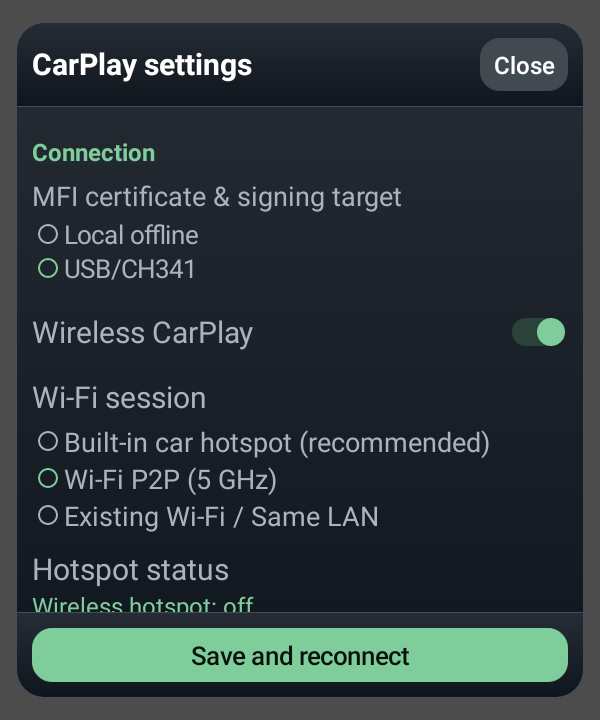
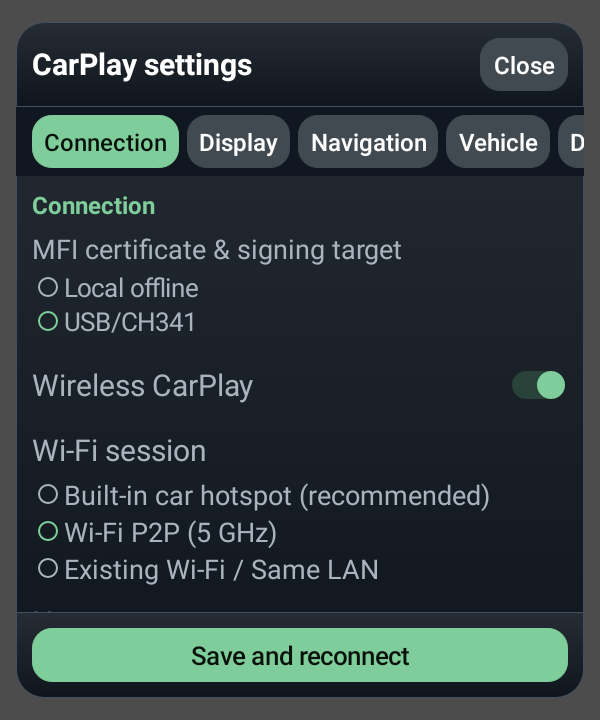
Align swipe groups with driver goals and restore content scroll

diff --git a/common/src/main/java/com/shilapi/xcertplay/CarPlayHostActivity.kt b/common/src/main/java/com/shilapi/xcertplay/CarPlayHostActivity.kt
@@ -342,6 +342,7 @@ class CarPlayHostActivity : ComponentActivity() {
     private var gestureOverlay: View? = null
     private var settingsMenu: View? = null
     private var settingsMenuCategoryKey = "connection"
+    private var settingsMenuContentScroll: ScrollView? = null
     private var mfiTargetGroup: RadioGroup? = null
     private var mfiI2cFields: View? = null
     private var mfiRemoteFields: View? = null
@@ -2472,14 +2473,21 @@ class CarPlayHostActivity : ComponentActivity() {
             val parent = previous.parent as? ViewGroup ?: return@let
             val index = parent.indexOfChild(previous)
             val visible = previous.visibility
-            val scrollY = findDescendant<ScrollView>(previous)?.scrollY ?: 0
+            val scrollY = settingsMenuContentScroll?.scrollY ?: 0
             val focusDescription = previous.findFocus()?.contentDescription?.toString()
             parent.removeView(previous)
             val replacement = buildSettingsMenu().apply { visibility = visible }
+            val replacementContentScroll = settingsMenuContentScroll
+            replacementContentScroll?.addOnLayoutChangeListener(object : View.OnLayoutChangeListener {
+                override fun onLayoutChange(view: View, left: Int, top: Int, right: Int, bottom: Int,
+                    oldLeft: Int, oldTop: Int, oldRight: Int, oldBottom: Int) {
+                    view.removeOnLayoutChangeListener(this)
+                    replacementContentScroll.scrollTo(0, scrollY)
+                }
+            })
             settingsMenu = replacement
             parent.addView(replacement, index, FrameLayout.LayoutParams(-1, -1))
             replacement.post {
-                findDescendant<ScrollView>(replacement)?.scrollTo(0, scrollY)
                 if (focusDescription != null) {
                     findDescendants(replacement).firstOrNull {
                         it.contentDescription?.toString() == focusDescription
@@ -2564,17 +2572,32 @@ class CarPlayHostActivity : ComponentActivity() {
             clipToOutline = true
             elevation = dp(SWIPE_PANEL_ELEVATION_DP).toFloat()
         }
+        val categories = listOf(
+            "connection" to R.string.connection,
+            "display" to R.string.settings_display,
+            "navigation" to R.string.settings_navigation,
+            "vehicle" to R.string.settings_vehicle,
+            "diagnostics" to R.string.diagnostics,
+            "advanced" to R.string.settings_advanced,
+            "more" to R.string.settings_more,
+        )
         val pages = LinkedHashMap<String, LinearLayout>()
-        fun newPage(key: String) = LinearLayout(this).apply {
-            orientation = LinearLayout.VERTICAL
-            gravity = Gravity.CENTER_HORIZONTAL
-            setPadding(dp(SWIPE_CHROME_PADDING_DP), dp(SWIPE_CONTENT_TOP_PADDING_DP),
-                dp(SWIPE_CHROME_PADDING_DP), dp(SWIPE_CONTENT_BOTTOM_PADDING_DP))
-            pages[key] = this
+        categories.forEach { (key, title) ->
+            pages[key] = LinearLayout(this).apply {
+                tag = key
+                orientation = LinearLayout.VERTICAL
+                gravity = Gravity.CENTER_HORIZONTAL
+                setPadding(dp(SWIPE_CHROME_PADDING_DP), dp(SWIPE_CONTENT_TOP_PADDING_DP),
+                    dp(SWIPE_CHROME_PADDING_DP), dp(SWIPE_CONTENT_BOTTOM_PADDING_DP))
+                addView(settingsCategoryHeader(getString(if (key == "advanced")
+                    R.string.settings_swipe_advanced else title)), LinearLayout.LayoutParams(
+                    ViewGroup.LayoutParams.MATCH_PARENT, ViewGroup.LayoutParams.WRAP_CONTENT))
+            }
         }
-        var content = newPage("connection")
+        fun pageFor(key: String) = pages.getValue(key)
+        var content = pageFor("connection")
         if (sessionDisplay?.viewAreas?.sidePanel() != null) {
-            content.addView(DiPlayButton(this).apply {
+            pageFor("advanced").addView(DiPlayButton(this).apply {
                 text = getString(if (sidePanelShown) R.string.side_panel_full_screen else R.string.side_panel_show)
                 textSize = 17f
                 minHeight = dp(52)
@@ -2585,14 +2608,6 @@ class CarPlayHostActivity : ComponentActivity() {
                 }
             }, LinearLayout.LayoutParams(ViewGroup.LayoutParams.WRAP_CONTENT, ViewGroup.LayoutParams.WRAP_CONTENT))
         }
-        content.addView(
-            settingsCategoryHeader(getString(R.string.connection)),
-            LinearLayout.LayoutParams(
-                ViewGroup.LayoutParams.MATCH_PARENT,
-                ViewGroup.LayoutParams.WRAP_CONTENT,
-            ).apply { topMargin = dp(16) },
-        )
-
         content.addView(
             buildMfiTargetSection(),
             LinearLayout.LayoutParams(
@@ -2670,14 +2685,7 @@ class CarPlayHostActivity : ComponentActivity() {
             ).apply { topMargin = dp(12) },
         )
 
-        content = newPage("navigation")
-        content.addView(
-            settingsCategoryHeader(getString(R.string.settings_navigation)),
-            LinearLayout.LayoutParams(
-                ViewGroup.LayoutParams.MATCH_PARENT,
-                ViewGroup.LayoutParams.WRAP_CONTENT,
-            ).apply { topMargin = dp(36) },
-        )
+        content = pageFor("navigation")
         content.addView(
             buildLocationReportingSection(),
             LinearLayout.LayoutParams(
@@ -2687,14 +2695,7 @@ class CarPlayHostActivity : ComponentActivity() {
         )
 
         if (advancedAudioChannelMappingSupported) {
-            content = newPage("audio")
-            content.addView(
-                settingsCategoryHeader(getString(R.string.audio)),
-                LinearLayout.LayoutParams(
-                    ViewGroup.LayoutParams.MATCH_PARENT,
-                    ViewGroup.LayoutParams.WRAP_CONTENT,
-                ).apply { topMargin = dp(36) },
-            )
+            content = pageFor("advanced")
             content.addView(
                 settingsSwitchRow(
                     label = getString(R.string.advanced_audio_channel_mapping),
@@ -2715,14 +2716,7 @@ class CarPlayHostActivity : ComponentActivity() {
             )
         }
 
-        content = newPage("vehicle")
-        content.addView(
-            settingsCategoryHeader(getString(R.string.settings_vehicle)),
-            LinearLayout.LayoutParams(
-                ViewGroup.LayoutParams.MATCH_PARENT,
-                ViewGroup.LayoutParams.WRAP_CONTENT,
-            ).apply { topMargin = dp(36) },
-        )
+        content = pageFor("vehicle")
         content.addView(
             buildIdentitySettingsSection(),
             LinearLayout.LayoutParams(
@@ -2737,7 +2731,7 @@ class CarPlayHostActivity : ComponentActivity() {
                 description = getString(R.string.settings_hide_byd_call_popup_description),
             ) { hideBydCallPopup = it })
         }
-        content.addView(
+        pageFor("display").addView(
             buildAirPlayIconSection(),
             LinearLayout.LayoutParams(
                 ViewGroup.LayoutParams.MATCH_PARENT,
@@ -2751,21 +2745,14 @@ class CarPlayHostActivity : ComponentActivity() {
                 ViewGroup.LayoutParams.WRAP_CONTENT,
             ).apply { topMargin = dp(26) },
         )
-        content.addView(
+        pageFor("display").addView(
             buildDockSection(),
             LinearLayout.LayoutParams(
                 ViewGroup.LayoutParams.MATCH_PARENT,
                 ViewGroup.LayoutParams.WRAP_CONTENT,
             ).apply { topMargin = dp(26) },
         )
-        content = newPage("display")
-        content.addView(
-            settingsCategoryHeader(getString(R.string.settings_display)),
-            LinearLayout.LayoutParams(
-                ViewGroup.LayoutParams.MATCH_PARENT,
-                ViewGroup.LayoutParams.WRAP_CONTENT,
-            ).apply { topMargin = dp(40) },
-        )
+        content = pageFor("display")
 
         val resolutionControl = DisplaySettingsSection.createResolutionSlider(
             context = this,
@@ -2857,7 +2844,7 @@ class CarPlayHostActivity : ComponentActivity() {
             )
             updateResolutionMenu()
         }
-        content.addView(
+        pageFor("advanced").addView(
             hevcRow.rowView,
             LinearLayout.LayoutParams(
                 ViewGroup.LayoutParams.MATCH_PARENT,
@@ -2879,7 +2866,7 @@ class CarPlayHostActivity : ComponentActivity() {
             updateResolutionMenu()
         }
         if (Build.VERSION.SDK_INT >= Build.VERSION_CODES.Q) {
-            content.addView(
+            pageFor("advanced").addView(
                 softwareHevcRow.rowView,
                 LinearLayout.LayoutParams(
                     ViewGroup.LayoutParams.MATCH_PARENT,
@@ -2913,14 +2900,7 @@ class CarPlayHostActivity : ComponentActivity() {
             ).apply { topMargin = dp(30) },
         )
 
-        content = newPage("more")
-        content.addView(
-            settingsCategoryHeader(getString(R.string.diagnostics)),
-            LinearLayout.LayoutParams(
-                ViewGroup.LayoutParams.MATCH_PARENT,
-                ViewGroup.LayoutParams.WRAP_CONTENT,
-            ).apply { topMargin = dp(40) },
-        )
+        content = pageFor("diagnostics")
         content.addView(
             buildDebugLogsSection(),
             LinearLayout.LayoutParams(
@@ -2930,6 +2910,7 @@ class CarPlayHostActivity : ComponentActivity() {
         )
 
         if (Build.VERSION.SDK_INT < Build.VERSION_CODES.Q) {
+            content = pageFor("advanced")
             content.addView(
                 settingsCategoryHeader(getString(R.string.android_9_compatibility)),
                 LinearLayout.LayoutParams(
@@ -2950,6 +2931,7 @@ class CarPlayHostActivity : ComponentActivity() {
             )
         }
 
+        content = pageFor("more")
         val save = DiPlayButton(this).apply {
             text = getString(R.string.save_and_reconnect)
             textSize = 17f
@@ -2983,7 +2965,7 @@ class CarPlayHostActivity : ComponentActivity() {
             }
         }
         gestureButton.text = settingsGestureButtonText()
-        content.addView(gestureButton, LinearLayout.LayoutParams(-1, -2).apply { topMargin = dp(12) })
+        pageFor("vehicle").addView(gestureButton, LinearLayout.LayoutParams(-1, -2).apply { topMargin = dp(12) })
 
         val openDiPlaySettingsButton = DiPlayButton(this).apply {
             text = "${getString(R.string.app_name)} ${getString(R.string.settings)}"
@@ -3013,6 +2995,7 @@ class CarPlayHostActivity : ComponentActivity() {
 
         val pageHost = FrameLayout(this)
         val selectedPage = settingsMenuCategoryKey.takeIf(pages::containsKey) ?: "connection"
+        settingsMenuCategoryKey = selectedPage
         pages.forEach { (key, page) ->
             page.visibility = if (key == selectedPage) View.VISIBLE else View.GONE
             pageHost.addView(page, FrameLayout.LayoutParams(ViewGroup.LayoutParams.MATCH_PARENT,
@@ -3029,14 +3012,7 @@ class CarPlayHostActivity : ComponentActivity() {
                 ),
             )
         }
-        val categories = listOf(
-            "connection" to R.string.connection,
-            "navigation" to R.string.settings_navigation,
-        ) + (if (advancedAudioChannelMappingSupported) listOf("audio" to R.string.audio) else emptyList()) + listOf(
-            "vehicle" to R.string.settings_vehicle,
-            "display" to R.string.settings_display,
-            "more" to R.string.settings_more,
-        )
+        settingsMenuContentScroll = scroll
         val categoryButtons = mutableListOf<Pair<String, DiPlayButton>>()
         lateinit var chips: HorizontalScrollView
         fun selectCategory(key: String) {

diff --git a/common/src/test/java/com/shilapi/xcertplay/CarPlayHostSettingsTest.kt b/common/src/test/java/com/shilapi/xcertplay/CarPlayHostSettingsTest.kt
@@ -161,8 +161,17 @@ class CarPlayHostSettingsTest {
         }.performClick()
         assertEquals("display", field("settingsMenuCategoryKey"))
         assertEquals(1, (0 until pages.childCount).count { pages.getChildAt(it).visibility == View.VISIBLE })
-        assertTrue(views(pages.getChildAt(pages.childCount - 2)).filterIsInstance<TextView>().any {
+        fun page(key: String) = (0 until pages.childCount).map(pages::getChildAt).single { it.tag == key }
+        assertTrue(views(page("display")).filterIsInstance<TextView>().any {
             it.text == activity.getString(R.string.frame_rate)
+        })
+        assertTrue(views(page("display")).filterIsInstance<TextView>().any {
+            it.text == activity.getString(R.string.carplay_dock)
+        })
+        assertFalse(views(page("display")).filterIsInstance<TextView>().any { it.text == "HEVC (H.265)" })
+        assertTrue(views(page("advanced")).filterIsInstance<TextView>().any { it.text == "HEVC (H.265)" })
+        assertTrue(views(page("vehicle")).filterIsInstance<Button>().any {
+            it.text == activity.getString(R.string.settings_gesture_fingers, 3)
         })
     }
 
@@ -191,6 +200,29 @@ class CarPlayHostSettingsTest {
         assertFalse(views(contentScroll).contains(save))
         assertTrue(exit.width <= contentScroll.width)
         assertEquals("more", field("settingsMenuCategoryKey"))
+    }
+
+    @Test
+    @Config(qualifiers = "en-w1920dp-h1080dp-mdpi")
+    fun appearanceChangeRestoresContentScrollRatherThanCategoryRail() {
+        setField("settingsMenuCategoryKey", "display")
+        invoke("openSettingsMenu")
+        fun layoutMenu() {
+            repeat(2) {
+                menu().measure(View.MeasureSpec.makeMeasureSpec(1920, View.MeasureSpec.EXACTLY),
+                    View.MeasureSpec.makeMeasureSpec(1080, View.MeasureSpec.EXACTLY))
+                menu().layout(0, 0, 1920, 1080)
+            }
+        }
+        layoutMenu()
+        (field("settingsMenuContentScroll") as ScrollView).scrollTo(0, 180)
+        assertEquals(180, (field("settingsMenuContentScroll") as ScrollView).scrollY)
+        AirPlayPersistence.saveAppAppearance(activity, AppAppearance.LIGHT)
+        invoke("refreshAppAppearance")
+        layoutMenu()
+        shadowOf(Looper.getMainLooper()).idle()
+        assertEquals("display", field("settingsMenuCategoryKey"))
+        assertEquals(180, (field("settingsMenuContentScroll") as ScrollView).scrollY)
     }
 
     @Test

diff --git a/common/src/test/java/com/shilapi/xcertplay/AdaptiveSettingsUiTest.kt b/common/src/test/java/com/shilapi/xcertplay/AdaptiveSettingsUiTest.kt
@@ -681,6 +681,9 @@ class AdaptiveSettingsUiTest {
         val advanced = visibleIn(R.string.settings_advanced)
         val connection = visibleIn(R.string.connection)
 
+        assertTrue(display.any { it.startsWith(text(R.string.carplay_dock)) })
+        assertFalse(vehicle.any { it.startsWith(text(R.string.carplay_dock)) })
+
         assertTrue(connection.any { it.startsWith(text(R.string.settings_usb_charging)) })
         assertFalse(advanced.any { it.startsWith(text(R.string.settings_usb_charging)) })
         assertTrue(audio.any { it.startsWith(text(R.string.music_buffer)) })
